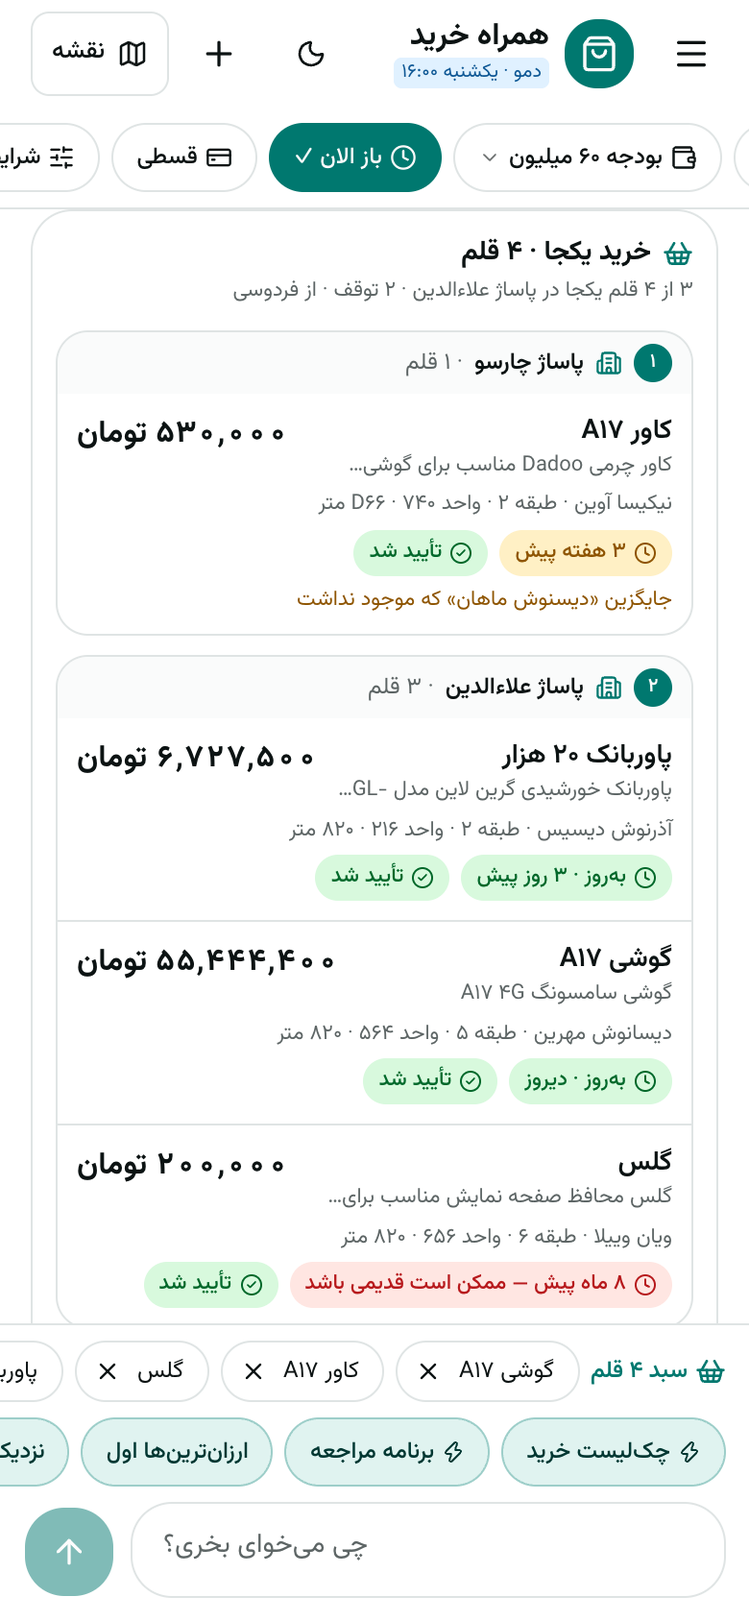
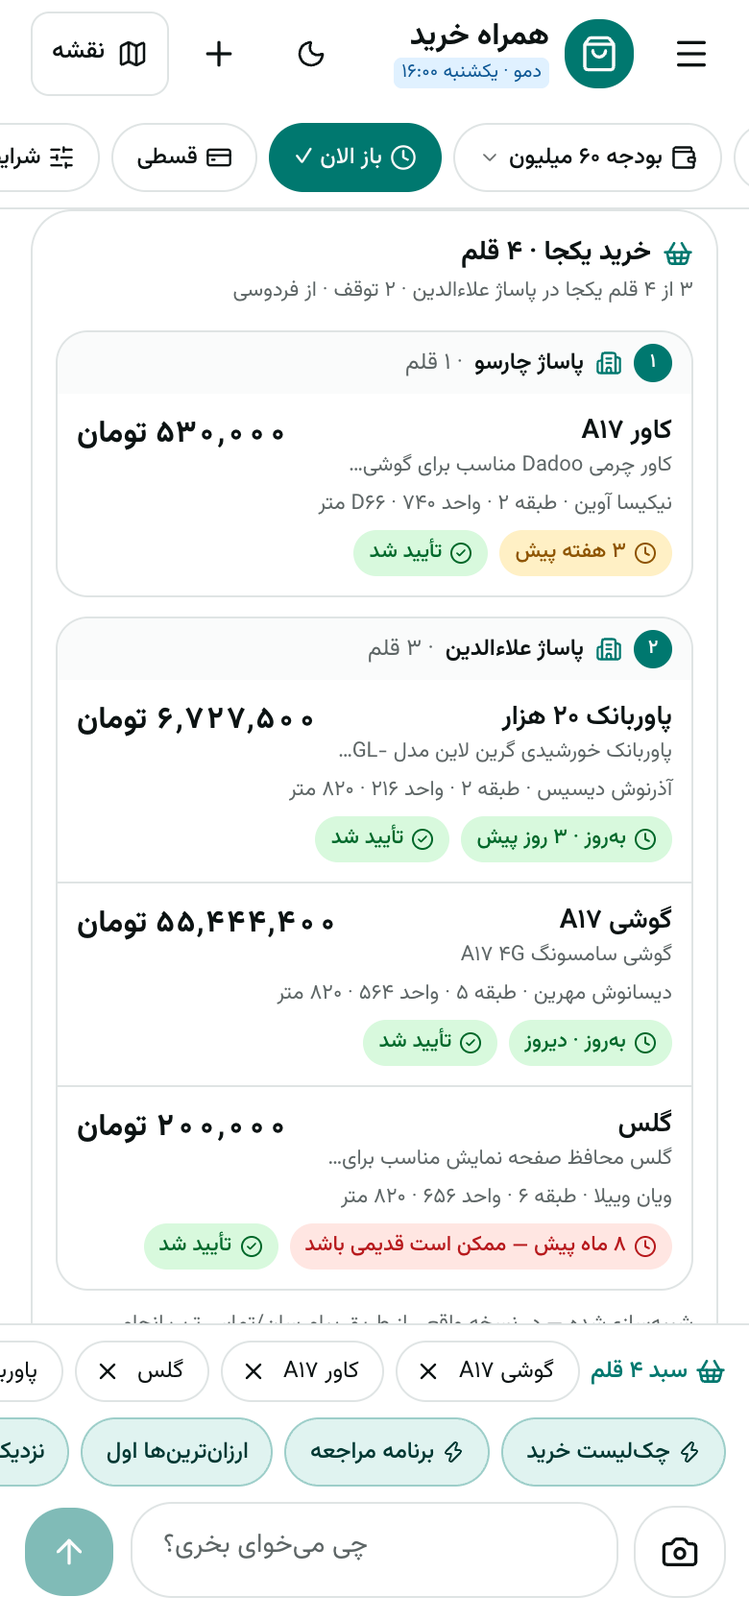
docs: feature pack 2 wrap-up — hero entry points, README, demo beats (v1.1)
- hero chips «الان توی پاساژ علاءالدینم» and «گوشی + کاور + گلس یکجا»,
  camera-button hint; scenario check for them
- README: feature-pack table, criteria map, checks (features golden,
  vision-check)
- DEMO: F1, F2 and F3 beats after the mission example (script < 5 min)
- PROGRESS: verification on phone, desktop and Docker (47/47)
- phone and desktop screenshots 24–32

diff --git a/components/app/hero.tsx b/components/app/hero.tsx
@@ -1,10 +1,10 @@
 'use client';
 
 import { useState } from 'react';
-import { Building2, Clock3, Crosshair, History, ListChecks, Map as MapIcon, MessageSquare, Search, ShieldCheck, Sparkles } from 'lucide-react';
+import { Building2, Camera, Clock3, Crosshair, History, ListChecks, Map as MapIcon, MessageSquare, Search, ShieldCheck, ShoppingBasket, Sparkles } from 'lucide-react';
 import { toast } from 'sonner';
 import { Button } from '@/components/ui/button';
-import { HERO_CHIPS, MISSION_EXAMPLE } from '@/lib/agent/suggest';
+import { HERO_CHIPS, HERO_NEW, MISSION_EXAMPLE } from '@/lib/agent/suggest';
 import { faText } from '@/lib/fa/format';
 import type { UserMemory } from '@/lib/agent/memory';
 import type { ChatSummary } from '@/lib/agent/state';
@@ -112,6 +112,24 @@ export function Hero({
             <span className="leading-6">{MISSION_EXAMPLE}</span>
           </button>
         </div>
+        <div className="flex flex-wrap gap-1.5 pt-1">
+          {HERO_NEW.map((t, i) => (
+            <button
+              key={t}
+              disabled={busy}
+              data-hero-new={i === 0 ? 'mall' : 'basket'}
+              onClick={() => sendText(t)}
+              className="inline-flex h-9 items-center gap-1 rounded-full border border-primary/30 bg-background px-3 text-xs font-medium hover:bg-accent disabled:opacity-60"
+            >
+              {i === 0 ? <Building2 className="size-3.5 text-primary" /> : <ShoppingBasket className="size-3.5 text-primary" />}
+              {t}
+            </button>
+          ))}
+        </div>
+        <p data-camera-hint className="flex items-center gap-1.5 text-xs text-muted-foreground">
+          <Camera className="size-3.5 text-primary" />
+          عکس جعبه یا برچسب قیمت داری؟ دکمهی دوربین کنار کادر پیام را بزن.
+        </p>
       </div>
 
       <div className="rounded-2xl border bg-card p-3">

diff --git a/lib/agent/suggest.ts b/lib/agent/suggest.ts
@@ -14,6 +14,9 @@ export const HERO_CHIPS = [
 ];
 
 /** A compound request run as one mission (5th hero chip; spec example that the plain agent used to drop). */
+/** Feature pack 2 entry points on the hero (F2 in-mall, F3 basket); F1 is the composer's camera button. */
+export const HERO_NEW = ['الان توی پاساژ علاءالدینم', 'گوشی + کاور + گلس یکجا'];
+
 export const MISSION_EXAMPLE =
   'من یه گوشی سامسونگ حدود قیمت ۵۰ میلیون تومن میخوام. محدوده سعادت آباد باشه. و خودت بپرس ببین قیمتهاشون آپدیت هست یا نه و اینکه الان باز هستند.';
 

diff --git a/scripts/scenario.ts b/scripts/scenario.ts
@@ -79,6 +79,7 @@ async function main() {
   // demo user with a clean history and memory
   await page.goto(`${base}/demo-reset?demo_time=${DEMO_TIME}&name=${encodeURIComponent(USER)}`, { waitUntil: 'networkidle' });
   await page.getByRole('button', { name: 'گوشی سامسونگ تا ۶۰ میلیون نزدیک من' }).waitFor({ timeout: 30_000 });
+  check('0. hero: in-mall and basket chips, camera hint', (await page.locator('[data-hero-new]').count()) === 2 && (await page.locator('[data-camera-hint]').isVisible()) && (await page.locator('[data-photo-input]').count()) === 1);
   await snap(page, 'home');
 
   // 1) chip → product cards

diff --git a/README.md b/README.md
@@ -35,6 +35,18 @@
 - **Memory across chats.** The usual location and radius, recent searches and recently chosen products are remembered per user. A new chat starts at the remembered location, greets by name and offers «از جایی که مانده بودیم» (resume the last chat or repeat a recent search); the agent gets the same facts as a short prompt block. «پاک کردن» clears it.
 - **Every shop on the map, by shop type.** All shops within the radius are drawn with an icon for their type (mobile, computer, audio/video, CCTV, electronic parts, electrical & lighting, tools, appliances, apparel, beauty, medical, auto… — derived from the ~4,000 activity categories, «فعالیت ثبت نشده» when the dataset has none) and a colour for what Torob knows (teal: lists products · gray: no listings · amber: only the activity category matches the chosen product). Chips above the map filter by type with counts. Shops that share a building (up to 45 at one point in the bazaar) are grouped into a pill with a shop icon and the count that zooms in on tap and, inside a mall, lists its shops. The current seller list stays as numbered pins. Tapping any shop opens its sheet: type, address with mall/floor/unit, today's hours, conditions, the chosen product's offer with «پیگیری» / «به برنامه», the score breakdown (for shops in the seller list) and the shop's other products.
 
+### Feature pack 2 (v1.1) — in the shop, not just before it
+| Feature | What the user gets |
+|---|---|
+| **Photo search** (F1) | Camera/gallery button in the composer: a box, a product or a **shelf price tag** → «سامسونگ Galaxy A17» with the top 3 matches («همین است» / «نه، این نیست»), and the tag price against the market («۸٪ بالای میانه بازار») and the cheaper sellers nearby. Unrecognizable photos → «نتونستم تشخیص بدم، اسمش رو بنویس». The photo goes to the model provider only and is never stored. Works with OpenAI, Google and OpenRouter (`LLM_VISION_MODEL`). |
+| **In‑mall mode** (F2) | «الان توی پاساژ علاءالدینم» → the mall floor by floor: sellers of the product first (price · price age · stock), shops of the same category badged «همسایه جایگزین», the rest folded; «پیگیری همهی این طبقه», the mall's opening hours and nearby malls. Missions in a mall group their report by floor. |
+| **Basket trip** (F3) | «گوشی A17، کاور A17، گلس، پاوربانک ۲۰ هزار، همه یکجا نزدیک فردوسی» → one seller per line, as many as possible in one mall (greedy set cover: 4 of 4 in پاساژ علاءالدین), the rest from the nearest seller; «پیگیری همه» asks every seller and replaces the ones out of stock; then the visit plan. |
+| **Ready‑to‑send message** (F4) | «خودم پیام بدهم»: an editable message to the real seller (product, listed price and its age in Torob, the question, «آدرس را درست دارم؟ پاساژ چارسو، طبقه ۱، پلاک C۵۲») with WhatsApp / SMS / copy buttons. |
+| **Bargaining card** (F5) | The offer on the market range (min–median–max of sane prices), ≤ 4 data‑backed talking points (a cheaper seller 40 m away, price age, warranty gap) and a fair target price → «پیام با این قیمت». |
+| **Spec Q&A** (F8) | «این گوشی NFC داره؟»، «وزنش چنده؟»، «فرق رمش چیه؟» → answered only from the registered specs, with evidence chips that open the spec table; «در مشخصات ثبتشده نیامده» otherwise. «چرا این اول شد؟» shows the score breakdown. |
+| **Trust signals** (F10) | «کامل بودن اطلاعات» 0–3 (hours known · website/Instagram · fresh price) with «چرا؟» — explicitly not a quality score; website/Instagram buttons; credit payment worded by channel (in person confirmed vs declared). |
+| **Best time to visit** (F11) | «کی برم؟» → share of open shops per hour (heatmap per weekday), the best window («یکشنبه بین ۱۱ تا ۱۸، ۹۳٪ بازند»), Friday closures, shops without hours; the visit plan offers «شروع از ۱۱:۰۰» when it would start outside the window. |
+
 ### Transparency rules (visible on every seller card)
 - **Three separate fields, three visual treatments:** «قیمت ثبتشده» (listed price) · «آخرین تغییر قیمت» (green ≤ 7 d, amber ≤ 30 d, red older, gray unknown) · «موجودی» (stays «تأیید نشده» until a follow‑up confirms it).
 - Unknown is shown as unknown («ثبت نشده»، «اعلام نشده»، «ساعت کاری ثبت نشده») — never blank, never guessed.
@@ -45,11 +57,11 @@
 
 | Criterion (pts) | Where it shows |
 |---|---|
-| **Product (75)** | All four steps end to end; mall → floor → unit navigation from free‑text addresses (4,088 shops parsed); price‑freshness and suspicious‑price flags; category‑only shops separated; follow‑ups with automatic alternatives; visit plan with open‑at‑arrival warnings; shareable plan; checklist; every shop of the area on the map by type, filterable and selectable; per‑user chat history with resume. |
-| **UX (75)** | Mobile‑first RTL (390 px) **and** a desktop layout (≥ 1024 px: history · chat · live map); Vazirmatn, Persian digits everywhere; chat **plus** structured controls: sticky ContextBar (location, radius, price cap, conditions, intent) re‑filters the list **instantly without the LLM**; generative UI cards; skeletons; empty states with one tappable fix; 44 px targets; dark mode; Lighthouse mobile **92 / 100 / 100** (M5 build). |
-| **Intelligence (50)** | Vercel AI SDK v7 agent with 11 tools; deterministic‑first category routing (product votes + trigram) with LLM refinement; Persian budget parser; explainable seller score and «چرا این اول شد؟» grounded in `score_breakdown`; proactive rules (stale price → follow up, out of stock → alternatives, confirmed → plan); memory across chats (usual location/radius, recent searches and products); compound requests run as one deterministic mission with the LLM at the edges (extraction, ≤ 3‑sentence summary); automatic fallback to a rule‑based model when the provider fails. |
+| **Product (75)** | All four steps end to end; mall → floor → unit navigation from free‑text addresses (4,088 shops parsed); price‑freshness and suspicious‑price flags; category‑only shops separated; follow‑ups with automatic alternatives; visit plan with open‑at‑arrival warnings; shareable plan; checklist; every shop of the area on the map by type, filterable and selectable; per‑user chat history with resume; **v1.1:** photo search with shelf‑price check, in‑mall floor view, multi‑item basket trip, ready‑to‑send seller message, bargaining card, grounded spec Q&A, trust signals, best time to visit. |
+| **UX (75)** | Mobile‑first RTL (390 px) **and** a desktop layout (≥ 1024 px: history · chat · live map); Vazirmatn, Persian digits everywhere; chat **plus** structured controls: sticky ContextBar (location, radius, price cap, conditions, intent) re‑filters the list **instantly without the LLM**; generative UI cards; skeletons; empty states with one tappable fix; 44 px targets; dark mode; camera button, floor tabs, BasketBar above the composer, per‑hour opening heatmap, evidence chips; Lighthouse mobile **92 / 100 / 100** (M5 build). |
+| **Intelligence (50)** | Vercel AI SDK v7 agent with 21 tools; vision model for photos (strict JSON, provider‑switchable); greedy set cover over malls for baskets; spec answers grounded in registered rows (numbers checked against the evidence); deterministic‑first category routing (product votes + trigram) with LLM refinement; Persian budget parser; explainable seller score and «چرا این اول شد؟» grounded in `score_breakdown`; proactive rules (stale price → follow up, out of stock → alternatives, confirmed → plan); memory across chats (usual location/radius, recent searches and products); compound requests run as one deterministic mission with the LLM at the edges (extraction, ≤ 3‑sentence summary); automatic fallback to a rule‑based model when the provider fails. |
 | **Deploy (40)** | `docker compose up -d` → PostgreSQL 16, app (Next standalone, non‑root, healthcheck), Caddy (automatic HTTPS); migrations + **auto‑seed** on first boot (~30 s); `/api/healthz`; exact VPS commands in [docs/DEPLOY.md](docs/DEPLOY.md). |
-| **Engineering (40)** | TypeScript end to end, Drizzle schema & migrations, COPY‑based seed with 4 streaming passes, pure tested modules (169 unit tests), golden search + mission suites, Playwright scenario (33 checks on phone and desktop viewports), CI (typecheck · lint · test), decisions log ([docs/DECISIONS.md](docs/DECISIONS.md)). |
+| **Engineering (40)** | TypeScript end to end, Drizzle schema & migrations, COPY‑based seed with 4 streaming passes, pure tested modules (218 unit tests), golden search + mission + feature suites (95 checks), vision fixtures with a per‑provider check, Playwright scenario (46 checks on phone and desktop viewports), CI (typecheck · lint · test), decisions log ([docs/DECISIONS.md](docs/DECISIONS.md)). |
 | **Dataset (20)** | Uses all three CSVs: Persian normalization (ی/ک, digits, ZWNJ), mall/floor/unit parser with spelling unification (علاالدین/علاءالدین/علائدین…), hours with `declared/closed/unsupported`, price age & suspicious‑price flags vs product median, payment providers with in‑person vs declared channel, warranty parsing, brand inference for the 75 % of products without a brand. |
 
 ## Architecture
@@ -121,7 +133,8 @@ Without any LLM key the app runs in **offline mode** (rule‑based model; badge 
 
 ```bash
 pnpm typecheck && pnpm lint && pnpm test   # CI runs these
-pnpm golden                                # 15 golden search queries + seller checks + 8 compound missions (needs the DB)
+pnpm golden                                # 15 golden search queries + seller checks + 8 compound missions + feature-pack checks (needs the DB)
+pnpm vision-check                          # photo search fixtures against every configured provider (network + keys)
 pnpm scenario                              # demo scenario §13 + history/memory on a 390 px viewport, screenshots → docs/screenshots/tmp
 pnpm scenario --desktop                    # same on 1440×900 (history sidebar + map column); --dark for dark mode
 pnpm llm-check                             # one tool call per configured provider

diff --git a/docs/DEMO.md b/docs/DEMO.md
@@ -9,15 +9,18 @@ Goal: from «گوشی سامسونگ تا ۶۰ میلیون» to a confirmed, ma
 3. With an LLM key the agent speaks freely; without one the header shows «حالت آفلاین» and the same flow runs with the rule‑based model (all numbers still come from tools).
 4. `SIM_SALT=hamrah-40` gives the mixed outcomes below for the top‑3 sellers.
 
-The whole flow is automated by `pnpm scenario <app-url>` (33 checks incl. the mission as step 9; `--desktop` for 1440×900, `--dark` for dark mode); the screenshots below come from it (desktop ones in `docs/screenshots/desktop/`).
+The whole flow is automated by `pnpm scenario <app-url>` (46 checks incl. the mission as step 9 and the feature-pack beats; `--desktop` for 1440×900, `--dark` for dark mode); the screenshots below come from it (desktop ones in `docs/screenshots/desktop/`).
 
 ## Script
 
 | # | Tap / say | What appears | Point to make | Screenshot |
 |---|---|---|---|---|
-| 0 | Type a name in «اسمت چیه؟» → «ورود» | Hero «سلام داور!» with 4 scenario chips, «موقعیت من», «انتخاب روی نقشه» | Sign in with just a name; chats are saved per user | `01-login.png`, `02-home.png` |
+| 0 | Type a name in «اسمت چیه؟» → «ورود» | Hero «سلام داور!» with 4 scenario chips + the mission chip, «الان توی پاساژ علاءالدینم» · «گوشی + کاور + گلس یکجا», the camera hint, «موقعیت من», «انتخاب روی نقشه» | Sign in with just a name; chats are saved per user | `01-login.png`, `02-home.png` |
 | 1 | Tap **«گوشی سامسونگ تا ۶۰ میلیون نزدیک من»** | 4 product cards: A17 128/4 (from ۵۳٬۹۰۰٬۰۰۰ · ۲۶ فروشنده), A07 64/4, A07 128/6, A17 128/6 flagged «کمی بالاتر از بودجه», each with a «چرا» line | Budget parsed deterministically; reasons are templated from data, not invented | `03-products.png` |
 | 1b | *(40 s)* Tap **«گفتگوی تازه»** (＋), then the 5th chip **«مأموریت چندمرحلهای»** — the real request that the plain agent used to drop | One mission with live steps: «سعادتآباد پیدا شد» → «۴ گوشی در بازه ۴۵–۵۵ میلیون» → «در ۱ کیلومتر: ۰ · در ۲ کیلومتر: ۰ · در ۳ کیلومتر: ۱ …» → «پیام به ۱ فروشنده…» → one report: «اینطور فهمیدم» chips (× removes one and re-runs), the coverage note (no listed seller in سعادتآباد itself; the nearest is 2.1 km away, near «آسمان»), the seller row with price, freshness, open/closed and the seller's reply, a verdict, and a recommendation or «پیشنهادی ندارم چون…», plus «مرکز شهر را هم ببین». Then «گفتگوهای قبلی» → back to the first chat for step 2 | One message → carried out to the end; dataset limits said plainly, nothing invented | `22-mission-progress.png`, `23-mission-result.png` |
+| 1c | *(20 s, still in the mission chat)* Tap the **camera button** next to the input → pick `tests/fixtures/vision/shelf-tag.jpg` (or photograph a real price tag) | The photo as a thumbnail; «در عکس: سامسونگ Galaxy A17 4G» → «گوشی سامسونگ A17 4G» with «همین است» / «نه، این نیست»; «قیمت روی برچسب: ۶۴٬۵۰۰٬۰۰۰ تومان · ۸٪ بالای میانه بازار», the market range and the cheaper sellers nearby; «عکس … ذخیره نمیشود» | In the shop: a photo of the tag answers «is this a fair price here?» — F1 | `32-photo-match.png` |
+| 1d | *(20 s)* Type **«الان توی پاساژ علاءالدینم»** | The mall floor by floor: floor tabs with seller counts, the A17 sellers first (price · آخرین تغییر قیمت · موجودی), «همسایه جایگزین» for shops of the same category, «پیگیری همهی این طبقه», the mall's hours, nearby malls | Inside a mall the question is «which floor, which unit» — F2 | `29-mall-view.png` |
+| 1e | *(30 s — fits: the whole script stays under 5 min)* Type **«گوشی A17، کاور A17، گلس، پاوربانک ۲۰ هزار، همه یکجا نزدیک فردوسی»** → **«پیگیری همه»** | «۴ از ۴ قلم یکجا در پاساژ علاءالدین · ۱ توقف», BasketBar above the input, every seller asked; an out-of-stock seller is replaced and asked too; the visit plan | One trip for the phone and its accessories — F3 | `30-basket-plan.png`, `31-basket-verified.png` |
 | 2 | Tap **«مقایسه»** on the first two → **«مقایسه کن»** → **«انتخاب»** under A17 128/4 | Compare table (differing specs + price/seller rows), then the seller list | Step 1 → step 2 without typing | `04-compare.png` |
 | 3 | — | «۲۴ فروشنده در شعاع ۱ کیلومتر», cluster chips (چارسو ۶، علاءالدین ۶، بازار موبایل ایران ۴، بزرگمهر ۲، خانه موبایل ۲); cards with mall · floor · unit | Mall navigation parsed from free‑text addresses | `05-sellers.png`, `06-seller-cards.png` |
 | 3b | Tap **«نقشه»** (desktop: the map column) | Radius circle, **every shop of the area** with an icon for its type (teal: lists products · gray: no listings · amber bubble: only the activity category matches), shops of one building grouped into pills with a shop icon and their count, the seller list as numbered pins; type chips with counts above the map → tap **«موبایل و لوازم جانبی»** and back to «همه»; tap pin **«۱»** → shop sheet: type, address with mall/floor/unit, today's hours, the chosen product's offer with «پیگیری» / «به برنامه», score shares, other products. Tapping a pill zooms in; inside a mall it lists the shops | Any shop on the map can be found by type, opened and acted on | `07-map.png`, `07b-map-type-filter.png`, `08-map-shop-details.png` |
@@ -30,7 +33,7 @@ The whole flow is automated by `pnpm scenario <app-url>` (33 checks incl. the mi
 | 8 | Tap **«گفتگوی تازه»** (＋) | «سلام داور!» + «از جایی که مانده بودیم»: the last search as a chip and «ادامه «گوشی سامسونگ تا ۶۰ میلیون…»» | Memory across chats (location, radius, searches, products) | `19-memory-new-chat.png` |
 | 8b | Open **«گفتگوهای قبلی»** (☰ on a phone, sidebar on desktop) and tap the previous chat (or «ادامه») | The whole chat comes back — seller list, follow‑up board with its outcomes, visit plan — and can be continued; the URL carries `?c=<chat id>` | History and resume | `20-history.png`, `21-resumed-chat.png` |
 
-## More beats (feature pack 2) — use as time allows
+## More beats (feature pack 2) — F1, F2, F3 are in the script above; the rest as time allows
 
 | Feature | Tap / say | What appears | Point to make | Screenshot |
 |---|---|---|---|---|

diff --git a/docs/PROGRESS.md b/docs/PROGRESS.md
@@ -178,6 +178,7 @@ Built in the requested order, one commit per feature.
 - **F2 In-mall mode ✅** — `lib/data/mall-floors.ts` (floor order, tab labels, sellers → neighbours → rest, mission floor sections), `lib/search/mall-view.ts` (shops by floor with offers, follow-up status, same-category neighbours, hours summary via F11, nearby malls), `mall_view` tool; `set_context`/missions set `mode: 'in_mall'`; chat routing for «الان توی پاساژ …م»; «نمای داخل …» suggestion within 150 m of a mall; `MallViewCard` (floor tabs, three-field prices, «همسایه جایگزین», «پیگیری همهی این طبقه», hours, nearby malls); mission rows grouped by floor (#88–91). Unit tests; `pnpm features` (علاءالدین + A17: 12 floors, 6 sellers on 3 floors, 103 neighbours); scenario (`29-mall-view.png`).
 - **F3 Multi-item basket trip ✅** — `lib/plan/basket.ts` (greedy set cover over malls, nearest-seller fill, coverage; line splitting; model codes), `lib/plan/basket-service.ts` (line → products, candidates, follow-up rounds with re-planning, trip plan), tools `basket_add` / `basket_remove` / `basket_plan`; mission schema `items[]` and chat routing for «… یکجا»; `BasketBar` above the composer, `BasketPlanCard` (stops, coverage, «پیگیری همه», visit plan) (#92–95). Unit tests (set cover, ties, exclusions, parsing, codes); `pnpm features` (the demo request → 4 of 4 lines in پاساژ علاءالدین, A17 exact, follow-ups awaited); scenario (`30-basket-plan.png`, `31-basket-verified.png`).
 - **F1 Photo search ✅** — `lib/vision/parse.ts` (strict schema, shelf-price parsing, Persian brand names, query, recognized), `lib/vision/identify.ts` (vision call via `visionModel()` / `LLM_VISION_MODEL`, 10 s — #98), `POST /api/vision/identify`, `lib/vision/photo-match.ts` + `photo_search` tool (top 3, shelf price vs market and nearby sellers, mission with text); composer camera/gallery button with client downscale, in-memory thumbnail, `PhotoMatchCard` («همین است» / «نه، این نیست», privacy line) (#96–100). Fixtures `tests/fixtures/vision/` (synthetic: box, Persian shelf tag, landscape); `pnpm vision-check` 3/3 on openai and openrouter (google 3/3 once, then provider «high demand» errors); unit tests; `pnpm features` (recorded JSON: A17, +8.4 % vs median, 21 cheaper nearby; landscape fallback; photo + request mission); scenario (`32-photo-match.png`).
+- **Wrap-up / v1.1 ✅** — hero: «الان توی پاساژ علاءالدینم» · «گوشی + کاور + گلس یکجا» chips and the camera hint; README feature table + criteria map; DEMO beats 1c (F1), 1d (F2), 1e (F3, script stays < 5 min). Verified 2026-10-23: typecheck · lint · 218 unit tests · golden (products 15/15, sellers 10/10, missions 45/45, features 27/27) · scenario 47/47 on phone (390 px), desktop (1440×900) and the Docker stack (:8088).
 
 ## Final status
 
